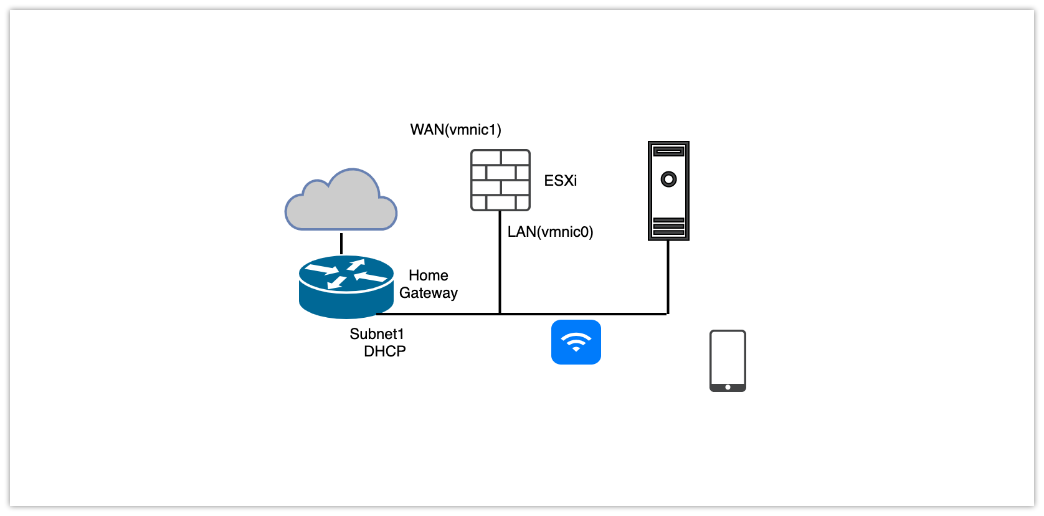
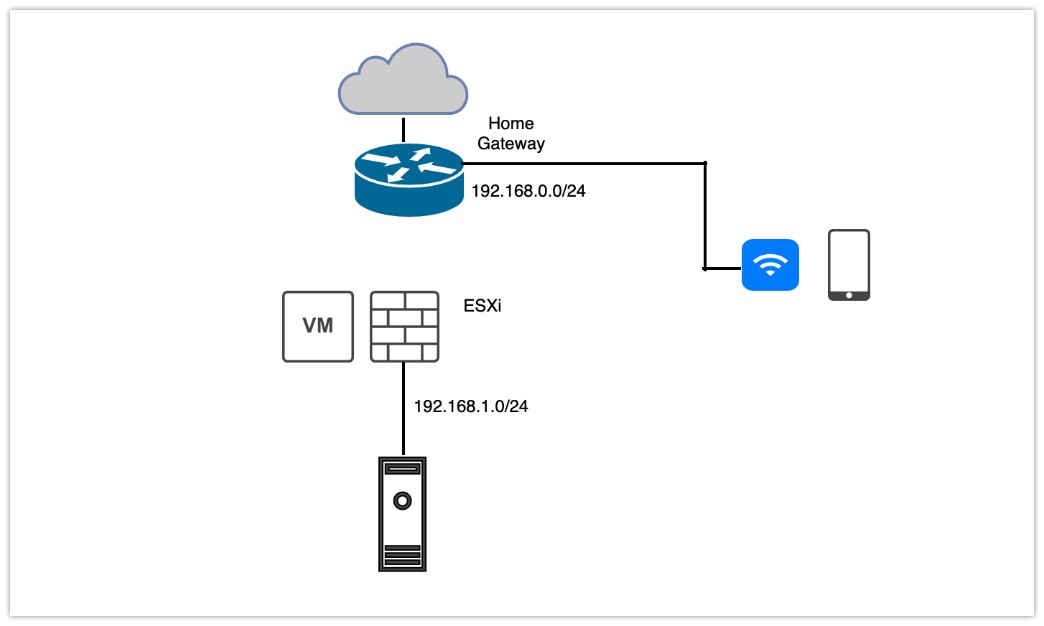
post about install xg

diff --git a/source/_posts/XG-Firewall.md b/source/_posts/XG-Firewall.md
@@ -1,5 +1,5 @@
 ---
-title: Sophos XG Firewall v18の導入
+title: Sophos XG Firewallの導入
 date: 2020-02-23 09:57:41
 tags:
   - XG Firewall
@@ -15,9 +15,9 @@ categories:
 元々、家庭用の無線ルータだけではセキュリティが不足していると考えてる人は多いとおもいます。私の場合、個人で持っているファイル位であれば、盗られたところで大きな問題になるわけでなし、と大きく構えておりました。数年前よりランサムウェア等の脅威が出てきた事で、それなりの対策が必要と感じてきました。街のwifiからも自宅のリソースに安全に接続したり、家のサーバーを踏み台にしてネットに繋げたいという欲も出てきて、今度はVPNが欲しいなと思い始めました。
 <!-- more -->
 　そもそも、iCloudかOneDriveあたりに必要なファイルはどーんと置いておけばいいんですが、漏洩よりも万が一のロストが不安です。それなりの容量だと、クラウドのお金も掛かりますしね。
-　オンプレの場合は盗難や火事というリスクもあり、人によって考え方は異なりますが、利便性と安全性のバランスを取る事を目指す事になるのでしょう。個人のセキュリティというものは、ビジネスにおけるリスクを極限まで抑制するという考えではなく、何かプラス α の安心感を求める程度という目線を目指す事になるのかとおもいます。個人の資産をどう守るかというのはまた別の機会にでも考えてみたいとおもいます。この[Sophos XG Firewall Home Edition](https://www.sophos.com/ja-jp/products/free-tools.aspx)は、法人向けにもかかわらず無料という事もあって、個人向けには最高のセキュリティ防御の手段となります。1つ前のバージョンのv17からずっと使わせてもらってます。
+　オンプレの場合は盗難や火事というリスクもあり、人によって考え方は異なりますが、利便性と安全性のバランスを取る事を目指す事になるのでしょう。個人のセキュリティというものは、ビジネスにおけるリスクを極限まで抑制するという考えではなく、何かプラス α の安心感を求める程度という目線を目指す事になるのかとおもいます。Sophos社が提供する[Sophos XG Firewall Home Edition](https://www.sophos.com/ja-jp/products/free-tools.aspx)は、業務用ながら個人向けには無料という事もあって、最良のセキュリティ防御の手段と考えています。かれこれ1年半くらいでしょうか。ずっと使わせてもらってます。
 
-　v18になってから、大幅に機能強化されたのは良かったのですが、残念ながら設定方法が解りづらくなってしまいました。こんなに高機能なものをタダで使わせてもらって、何も貢献しないのもなぁと思い、記録していく事にしました。設定を全部投稿するにはどれくらいの時間が掛かるでしょうか、空いた時間に書いていても結局書ききるのは数ヶ月先になるやもしれません。
+　v18が発表されて、大幅に機能強化されたのは良かったのですが、残念ながら設定方法が難しくなってしまいました。こんなに高機能なものを無料で使わせて頂いてるのだから、何か貢献すべきと考え、設定内容等を公開していく事にしました。スキマ時間に書いているのでスピードが遅いのはどうかご容赦ください。
 
 {% asset_img xg.png %}
 
@@ -36,6 +36,8 @@ categories:
 7. IPv6対応
 8. DNAT（Destination NAT※いわゆるInbound接続・ポート解放）
 9. DNS/DHCP(IPv4,IPv6)
+
+　細かな説明については、[こちら](https://jscom.jp/wp-content/uploads/pamphlet_sophos_020pdf.pdf)を見て下さい。
 
 {% note primary no-icon %}
 
@@ -57,12 +59,14 @@ categories:
 
 {% endnote %}
 
-1. 新しいPCが必要（もちろん新品である必要はないが）。しかも、2枚のネットワークインタフェースが必要。
-2. ネットのパフォーマンスが犠牲になる。自分はゲームをやらないので分からないが、回線帯域よりもレイテンシ（遅延）が大きくなると想定される。
-3. 証明書をインストール出来ない家電TVのネット機能などはIPSのhttpsインターセプトは利用出来ない。Androidも証明書はインストール可能だが、アプリ毎にXGのルート証明書を導入する事が求められ実質利用出来ない（Win,Mac,iOSは利用可能）。
-4. 何よりも、XG Firewallによる保護はエンドポイントの保護を完全に不要にするものではないため、従来通りウィルス対策ソフトはインストールが必要（と考えている）。
-5. まっさらなディスクにインストールする事となり、バックアップが取れない（仮想環境にインストールし、VMのバックアップは可能）。
+1. 新しいPCが必要（もちろん新品である必要はないが）。2枚のネットワークインタフェースが必要。
+2. ネットのパフォーマンスが犠牲になる。回線帯域よりもレイテンシ（遅延）が大きくなると想定される。
+3. XG Firewallによる保護はエンドポイントの保護を完全に不要にするものではないため、従来通りウィルス対策ソフトはインストールが必要（と考えている）。
 
 ---
+システム要件は以下の通りとなっています（XG Firewallの[ダウンロードページ](https://www.sophos.com/ja-jp/products/free-tools/sophos-xg-firewall-home-edition.aspx)より引用）。
 
-ハードルは高いですが興味のある方はお付き合い頂ければとおもいます。
+2つのネットワークインターフェースのあるIntel互換コンピュータ。(XG Firewall Home Editionをインストールすると、コンピュータにある既存のOSやファイルは上書きされます）
+Home Editionは、4コア、および6GBのRAMまでの環境に対応しています。この条件を超えるコンピュータも使用可能ですが、XG Firewall Home Editionは、上限を超える容量を活用できません。
+
+家庭向けとしては、技術面でかなりハードルは高いです。しかし、業務用ファイアウォールが家庭で使えるというのは非常に魅力です。興味のある方はお付き合い頂ければとおもいます。

diff --git a/source/_posts/InstallXG2.md b/source/_posts/InstallXG2.md
@@ -1,0 +1,80 @@
+---
+title: XG FirewallをESXi仮想マシン上にインストールする
+date: 2020-03-06 21:37:20
+tags:
+  - XG Firewall
+categories:
+  - Security
+#comments: false
+---
+{% note primary no-icon %}
+
+## 仮想マシンの電源をオンにする前に
+
+{% endnote %}
+
+　PCのブラウザで表示しているESXiの管理画面から、作成した仮想マシンの電源をオンにできます。これで設定されたISOファイルからブートさせる事になります。ESXiをセットアップした機器にモニタを接続する必要はありません。前回までの記事で、新たにクライアントが利用するネットワークアドレスを決めました。XGのデフォルトである172.16.16.0/24を使うか、自分が新たに決めたアドレス（ex. 192.168.1.0/24）になります。今回のケースでは、ホームゲートウェイとXGのWANとの間が、192.168.0.0/24のネットワーク、LAN側は192.168.1.0/24として説明を進めます。
+　いよいよ、仮想マシンの電源をオンにしてセットアップを開始します。
+<!-- more -->
+
+{% note primary no-icon %}
+
+## 仮想マシンの電源をオンにする
+
+{% endnote %}
+
+　さて、ESXiの管理コンソールからXGの仮想マシンを選んでパワーオンをクリックします。
+
+Sophos FIRMWARE INSTALLERが起動します。
+インストールを開始すると（仮想マシンに割り当てた）ディスクが全てフォーマットされ、ファームウェアがインストールされていきます。
+press y to rebootでリブートします。
+再起動後、さらにdefault conifgをインストールするとの表示がされ、やがてパスワード入力画面になります。最初のパスワードはadminです。まずライセンスを受け入れる画面となります。続いて、ネットワークの設定を変更します。
+
+{% asset_img conf.png alt %}
+
+1.Network Configurationを選び、次の画面で、1.Interface Configurationを選びます。以下の表示がEnterを押下する毎に変わります。
+
+- LAN側のIP割り振り状態（ここでは変更できません）。
+- WAN側のIP割り振り状態（変更不可。ホームゲートウェイからのプライベートIPが割り当てられています）。
+- Set IPv4 Address(y/n)と出るので、変更する場合は、y＋Enterします。
+- IPv6は後で設定するので空Enterで構いません。
+  
+この状態で一旦IPの設定を終えたら、クライアントPCのブラウザからXGに対して接続し、セットアップを続けていきます。ここではXGのIPアドレスを192.168.1.2にしたと仮定して進めます。
+
+{% note primary no-icon %}
+
+## XG Firewallの初期設定を行う
+
+{% endnote %}
+
+　ブラウザで、<https://192.168.1.2:4444>を開き初期設定を行っていきます。自己証明書でもあり、ブラウザのワーニングが表示されますが、了解のうえ進んでください。
+
+{% asset_img setup1.png alt %}
+
+ ここでは、右上のプルダウンで日本語に変更しておくと良いでしょう。
+ 続いて、以下の項目を設定していきます。
+
+- 管理者パスワード
+- タイムゾーン
+- 登録メールで届いたシリアル番号を入力します
+
+{% asset_img setup2.png alt %}
+
+- ゲートウェイとしてルーターモードを選択します
+- LAN側に割り振るDHCPのIP範囲を設定します
+
+{% asset_img setup3.png alt %}
+
+- ネットワークプロテクションはSandStormを除き選択します。仮に選択してもホームユースでは解除されます。
+  
+{% asset_img setup4.png alt %}
+  
+　続いての画面のメールセットアップですが、昨今、自宅からSMTPによるインターネットへのメール送信はSPAMの扱いと疑われ、OP25と称してブロックされているのが実態です。Gmailをお持ちであれば、Gmailをメールの送信者にしておくと比較的簡単に送信できます。メールの受信者は、いろいろなイベント通知が発生した時に確認するアドレスですので携帯などのアドレスが良いとおもいます。
+
+{% asset_img setup5.png alt %}
+
+ 　いよいよ、セットアップも最後の仕上げです。5分程度と言いつつ、もう少し掛かる場合がありますので、ブラウザのリロードをせずそのまま待って下さい。その後、管理画面のリロードが入り、自己証明書のためにブラウザのワーニングが出た画面で止まっている場合があります。
+
+{% asset_img setup6.png alt %}
+
+ さて、いよいよログイン画面です。固定IPにして設定してきたPCも、XGのDHCP機能によって、IPアドレスが割り当てられます。PCの設定をDHCPにして確認して下さい。そして、インターネットにも接続出来ている事を確認して下さい。確認が出来たら、ホームゲートウェイに接続されている他の機器などをXGのLAN側に繋いで下さい。

diff --git a/source/_posts/InstallXG.md b/source/_posts/InstallXG.md
@@ -1,0 +1,68 @@
+---
+title: XG Firewallのインストール（事前準備）
+date: 2020-03-06 18:12:36
+tags:
+  - XG Firewall
+categories:
+  - Security
+#comments: false
+---
+{% note primary no-icon %}
+
+## XG Firewallのダウンロード
+
+{% endnote %}
+　Sophosのサイトの[（無償ツール）](https://www.sophos.com/ja-jp/products/free-tools.aspx)より、「Sophos XG Firewall Home Edition」モジュールのダウンロードを行います。氏名、勤務先メールアドレスとありますが、ホームユースなので、遠慮なくGmailなどのアドレスを登録します。あっさりとISOファイルのダウンロードボタンが表示されると共に、メール宛にライセンス番号が送られてきます。
+　送られてきたメールの本文には、「利用条件としては、あくまで家庭での個人的な使用に限って無料です」と丁寧な日本語で記載されています。
+<!-- more -->
+ 　ダウンロードはISOイメージです。2020年3月6日時点では、最新のバージョンはv17.5のようです。ただし、Sophosからのお知らせに[v18がリリースされたとの記載](https://community.sophos.com/products/xg-firewall/b/blog/posts/sophos-xg-firewall-v18-is-now-available)があるため、こちらのISOファイルからインストールします。As usual, this firmware update is no charge for all licensed XG Firewall customers. とありますし問題なさそうです。VMware向けのテンプレートもダウンロード出来るようですが、仮想環境ではなくいきなり物理PCにインストールする方のために、ISOファイルからのセットアップ手順であった方が良いですね。上記のリンクから、SW-18.0.0_GA-Build321-321.isoをダウンロードして下さい。
+
+ 　いつも使っているPC（Windowsなど）から、ESXi管理画面にログインします。ESXiの管理画面の左ペインのストレージからデフォルトのストレージである、datastore1を選択し、データストアブラウザをクリックして下さい。次にアップロードボタンをクリックし、ダウンロードされたSW-18.0.0_GA-Build321-321.isoファイルをアップロードして下さい。
+
+ {% asset_img datastore.png alt %}
+ 　
+{% note primary no-icon %}
+
+## XG Firewall仮想マシンの作成
+
+{% endnote %}
+ 　
+ 　さて、ここから仮想マシンの初期設定です。
+
+1. ESXiの管理画面の仮想マシンから新規仮想マシンを選択します。
+1. 仮想マシンの作成を選択し、次へのボタンを押します。
+1. 仮想マシンの名前を決め、ゲストOSを選択します。OSファミリはLinuxで、OSバージョンはその他のLinux3.x（64ビット）を選択します。※以下の図では、その他のLinux4.x（64ビット）を選択しています。
+
+{% asset_img vm2.png alt %}
+
+1. ストレージを確認し、次へのボタンを押します。
+
+{% asset_img vm3.png alt %}
+
+1. ここでは、ネットワークカードの追加をし、WAN側のNICを追加します。ネットワークアダプタの詳細（▶マークをクリック）でドライバがE1000を確認して下さい。まずは安定性優先のためにE1000を選ぶ事をお勧めします。
+
+{% asset_img vm4.png alt %}
+
+1. また、仮想CD-ROMにXG Firewallのインストールイメージ（isoファイル）をマウントします。
+
+{% asset_img vm4-1.png alt %}
+
+7. 起動オプションのファームウェアはEFIからBIOSに変更して下さい。
+
+{% asset_img vm5.png alt %}
+
+8. さて、最終確認です。今回のプロビジョニングはシック（Lazy Zeroed）となっています。
+
+{% asset_img vm6.png alt %}
+
+9. 最後に完了ボタンを押します。これで仮想マシンが作成されます。
+
+{% asset_img vm7.png alt %}
+
+　いったんここまでで仮想マシンの作成は終了となります。なお、仮想マシンを選択した状態で「アクション」という歯車マークがあります。これをクリックして、コンソール→VMRCのダウンロードを選択し、VMware Remote Consoleをインストールして下さい。これがあるとブラウザから仮想マシンの画面がポップアップし、仮想マシンを操作出来るようになります。
+
+余談ですが、もし物理マシンに直接USBメモリ等でXGをインストールする場合は、対象マシンのBIOS設定でUEFIのチェックを外して下さい。
+
+＜補足＞
+
+　ESXiの知識がある方であれば、今回のｖ18よりその他のLinux4.x以降（64ビット）を選択可能なようですので、そちらを選んでみて下さい。また、NICのドライバについては、速度の面で有利なVMXNET3を選択可能です。まだ私自身もVMXNET3の検証は十分に行えていません。

diff --git a/source/_posts/esxi.md b/source/_posts/esxi.md
@@ -14,7 +14,7 @@ date: 2020-02-29 13:23:22
 
 {% endnote %}
 
- 　XG Firewallの導入に必須というわけではないですが、ハイスペックのマシンにXGだけというのも勿体ない気がして仮想環境（ESXi）を構築し、その上にXGをインストールする事にしました。
+ 　XG Firewallの導入に必須というわけではないですが、バックアップや異なるバージョンの同居など色々便利なので、仮想環境（ESXi）を構築しその上にXGをインストールします。
 
 　この個人向け（無償版）ESXiのインストールに関するドキュメントは正直解りやすい場所に掲載されてないのですが、[VMWareのブログ](https://blogs.vmware.com/jp-cim/2014/05/vspherehypervisor.html "vmware")から辿ると良いです。
 <!-- more -->
@@ -41,12 +41,14 @@ date: 2020-02-29 13:23:22
 
 <iframe src='https://players.brightcove.net/1534342432001/Byh3doRJx_default/index.html?videoId=5738631329001' allowfullscreen frameborder=0></iframe>
 
+　まず、注意点ですが、いつも使っているネットワークとは別のネットワークのIPアドレスを振ってセットアップします。いつもが192.168.0.0/24なら、今回は仮に192.168.1.0/24のネットワークに配置する予定としてESXiをセットアップする事にしましょう。これまでのネットワークにXG Firewallを挟み込む事になり、従来のネットワークはXGのWAN側とホームゲートウェイに利用され、XGのLAN側は新しいネットワークになるためです。新たにXGのLAN側と同じネットワークにESXiの管理ネットワークを構築する必要があります。なお、XGのLAN側のデフォルトIPアドレスは、172.16.16.16となっています。従って、XGのIPもセットアップ時に192.168.1.0/24のネットワークに変更する事とします。
+
 - USBメディアをESXiをインストールするPCに挿し、USBからブートし、セットアップを開始してください。
 - vCenterは個人向けには使いませんので無視してください。
-- NICが2枚ある事を前提にすると、Esxiの管理画面はLAN側のNICを対象とするように設定してください。今の時点では、WANは使いません。LANの他のPCから接続できる状態でセットアップします。
+- NICが2枚ある事を前提にすると、Esxiの管理画面はLAN側のNICを対象とするように設定してください。今の時点では、WANは使いません。新しく振ったIP（192.168.1.1/24）をESXiの管理用IPとして、セットアップします。
 - 上記のビデオ（2:40前後の説明）では「冗長化のために」と説明がありますが、今回は冗長化を使いません。通常LAN側のvmnic0を管理用のNICとしてセットアップしてください。また、VLANも使いません。
 - ESXi6.7では、vSphere Clientは使いません。インストールしたESXiのLAN側のIPアドレスに対してブラウザで接続し、ESXiのWeb管理画面で設定を行います。
 
 {% asset_img setup_esxi.png alt %}
 
- 　セットアップ終了後は、上記のようなネットワーク構成となります。USBメディアを抜いて再起動後、ESXiの画面にIPアドレスが表示されます。同一ネットワークに接続されているPCなどから、そのIPアドレスにブラウザで接続してください。ログインは、ユーザー名がroot、パスワードはセットアップで指定したものになります。
+ 　セットアップ終了後は、上記のようなネットワーク構成となります。USBメディアを抜いて再起動後、ESXiの画面にIPアドレスが表示されます。ホームゲートウェイに繋っていたPCをネットワークから外し、ESXiのLAN側のNICと繋ぎます。PCのIPを変更（例えば、192.168.1.101/24）し、ESXiのIPアドレスにブラウザで接続してください。ログインは、ユーザー名がroot、パスワードはセットアップで指定したものになります。

diff --git a/source/_posts/provision.md b/source/_posts/provision.md
@@ -47,8 +47,4 @@ categories:
 
 <div class="amazlet-box" style="margin-bottom:0px;"><div class="amazlet-image" style="float:left;margin:0px 12px 1px 0px;"><a href="http://www.amazon.co.jp/exec/obidos/ASIN/B07SNS9D9N" name="amazletlink" target="_blank"><img src="https://images-fe.ssl-images-amazon.com/images/I/41O4MQkV5VL._SL160_.jpg" alt="Intel NUC Kit Celeron J1900搭載 4LAN 4G RAM 60G SSDポータブルMini PC 小型デスクトップPC ファンレスPC" style="border: none;" /></a></div><div class="amazlet-info" style="line-height:120%; margin-bottom: 10px"><div class="amazlet-name" style="margin-bottom:10px;line-height:120%"><a href="http://www.amazon.co.jp/exec/obidos/ASIN/B07SNS9D9N" name="amazletlink" target="_blank">Intel NUC Kit Celeron J1900搭載 4LAN 4G RAM 60G SSDポータブルMini PC 小型デスクトップPC ファンレスPC</a><div class="amazlet-powered-date" style="font-size:80%;margin-top:5px;line-height:120%">posted with <a href="http://www.amazlet.com/" title="amazlet" target="_blank">amazlet</a> at 20.02.26</div></div><div class="amazlet-detail"> <br />売り上げランキング: 40,945<br /></div><div class="amazlet-sub-info" style="float: left;"><div class="amazlet-link" style="margin-top: 5px"><a href="http://www.amazon.co.jp/exec/obidos/ASIN/B07SNS9D9N" name="amazletlink" target="_blank">Amazon.co.jpで詳細を見る</a></div></div></div><div class="amazlet-footer" style="clear: left"></div></div>
 
-　XCYという会社のPCなんですが、これはもう、怪しさ満点です。一応1GbpsのネットワークPortが4つも付いているし、それなりに安いし、魅力的に映りました。この時は仮想環境を使わず、物理に直接インストールして実際にXGを使ってました。が、speedtest.netでパフォーマンスが200Mbps程度しか出なかったので、結局それなりのスペック（Core i7）のマシンを購入してセットアップし直した経緯があります。ファンレスという記載もありますが、「**ファンが付いてないだけ**」です。**すごく、熱いです・・・**。取り敢えず、チャレンジャーを自負する方は試してみても良いのではないでしょうか。なお、現在この会社のホームページは見つからないのですが、いくつかのサイトで販売されているのを見かけます。何台かAmazonにも出品されているようですが、私が注文した1年半前は、ネットワークが100Mbpsの製品も混ざっていましたのでご注意ください。さらに、当時のこの会社のホームページで掲載されていた画像を保存してあったので、ここで掲載しておきます。
-
- {% asset_img 1477389879115186.jpg alt %}
-
- まさに敵なしというか、ある意味清々しくて、とっても素敵です。
+　XCYという会社のPCなんですが、これはもう、怪しさ満点です。一応1GbpsのネットワークPortが4つも付いているし、それなりに安いし、魅力的に映りました。この時は仮想環境を使わず、物理に直接インストールして実際にXGを使ってました。が、speedtest.netでパフォーマンスが200Mbps程度しか出なかったので、結局それなりのスペック（Core i7）のマシンを購入してセットアップし直した経緯があります。ファンレスという記載もありますが、「**ファンが付いてないだけ**」です。**すごく、熱いです・・・**。取り敢えず、チャレンジャーを自負する方は試してみても良いのではないでしょうか。

diff --git a/source/_posts/esxi-conf.md b/source/_posts/esxi-conf.md
@@ -91,4 +91,4 @@ date: 2020-03-01 09:30:49
 {% asset_img vswitch4.png alt %}
 
 　これで、ESXiのネットワーク設定は完了となります。
-
+　面倒ですが、一旦またPCのネットワークを元に戻し、ホームゲートウェイに接続しネットに繋ぎます。そしてXG Firewallのモジュールをダウンロードしてまいりましょう。
